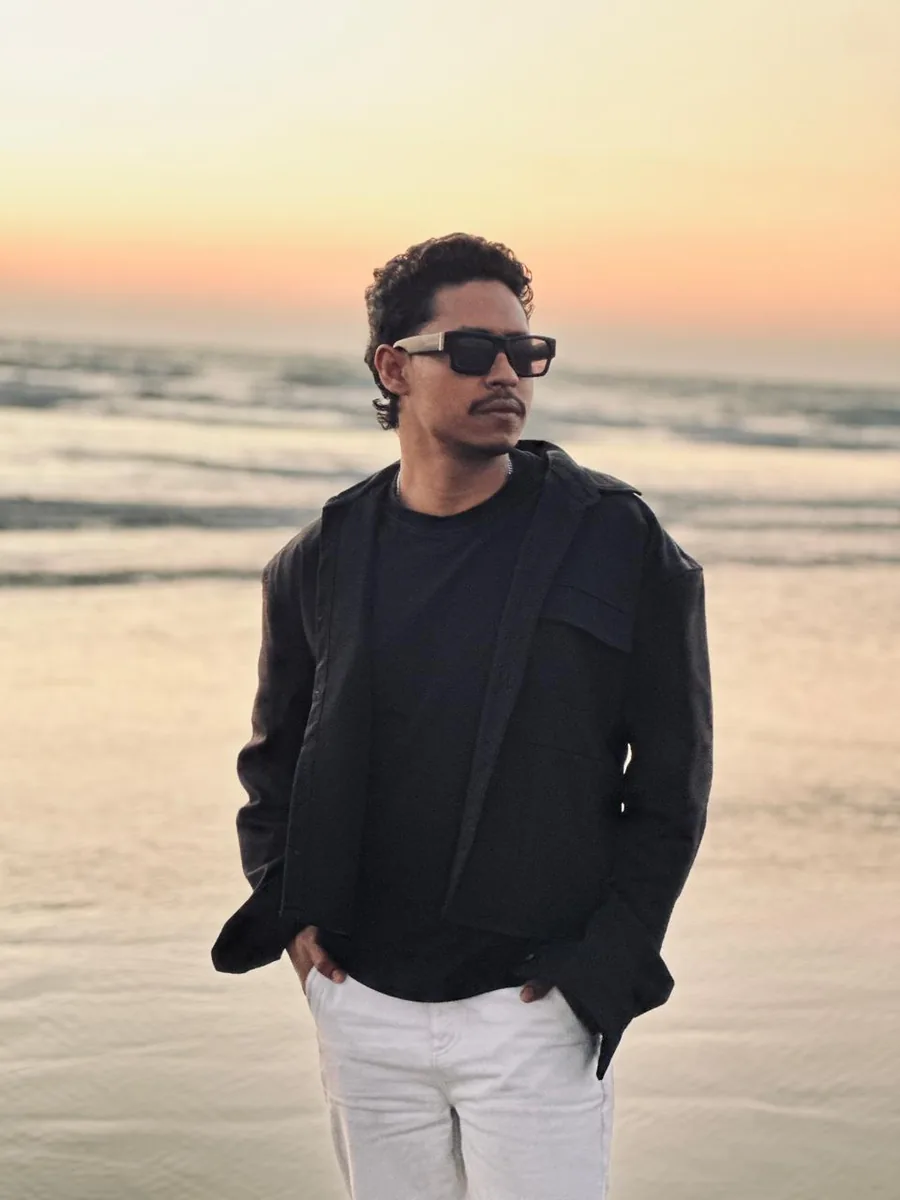
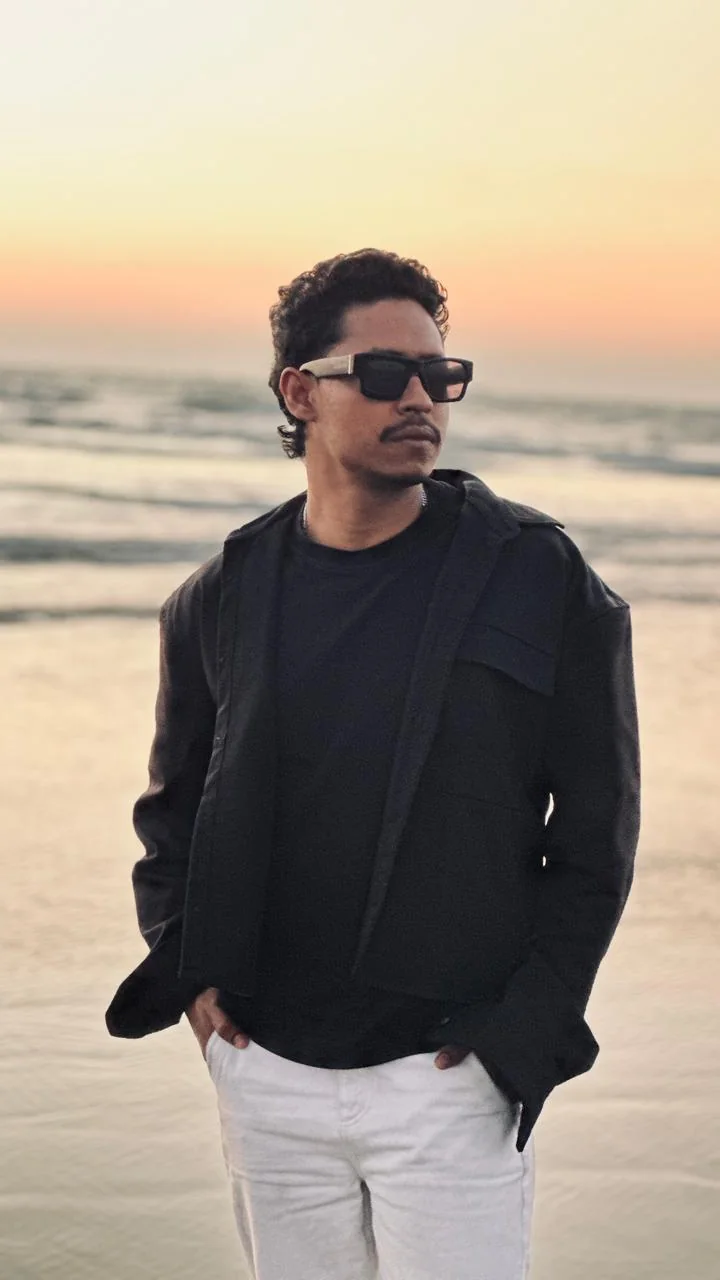
Apply Remove.docx: header chip, hero copy, 9:16 portrait, Python/Next.js, year
- Removed the "Open to work" chip from the header, along with the
  .hdr-avail / .avail-dot rules it was the only user of.
- Hero role is now "Full-Stack Developer"; dropped the " . Dhaka" suffix.
- Replaced the hero paragraph with the supplied copy.
- Both CTAs read "Let's talk" instead of "Get in touch".
- Portrait frame is 9:16. The width/height attributes were acting as
  presentational hints and, with no height in the CSS, were overriding
  aspect-ratio entirely - the frame had been rendering 400x1280 rather
  than to ratio. Added height:auto so aspect-ratio governs, and re-cropped
  sakib-portrait.webp from the original to a true 720x1280 so object-fit
  has nothing left to crop.
- Toolkit gains Next.js under Front-end and Python under Back-end.
- Footer year 2026 -> 2020.

admin.html's SEED block mirrors the index.html defaults, so it carries the
same copy and skills changes; otherwise the dashboard would pre-fill the
old text on a fresh install.

diff --git a/index.html b/index.html
@@ -102,11 +102,6 @@ body {
   font-size: 10.5px; letter-spacing: 0.14em;
   text-transform: uppercase; color: var(--text-dim);
 }
-.hdr-avail { display: flex; align-items: center; gap: 8px; }
-.avail-dot {
-  width: 6px; height: 6px; border-radius: 50%;
-  background: #7ee7a0; box-shadow: 0 0 8px #7ee7a0;
-}
 
 /* ─── SIDE NAV ───────────────────────────────────────────────────── */
 #side-nav {
@@ -281,8 +276,8 @@ body {
 .timeline-text { font-size: 15px; color: var(--text-sub); }
 .bg-sidebar { position: sticky; top: 108px; }
 .portrait-img {
-  width: 100%; max-width: 400px;
-  aspect-ratio: 3/4; object-fit: cover; object-position: center top;
+  width: 100%; max-width: 400px; height: auto;
+  aspect-ratio: 9/16; object-fit: cover; object-position: center;
   margin-bottom: 32px;
   filter: grayscale(0.12) contrast(1.04);
 }
@@ -677,7 +672,6 @@ a.cc-value:hover { color: var(--accent); }
 @media (max-width: 768px) {
   #site-header { padding: 16px 20px; }
   .hdr-right { gap: 12px; }
-  .hdr-avail { display: none; }
   #mob-menu-btn { display: flex; }
   #mob-nav { display: block; }
   #side-nav, #scroll-rail { display: none; }
@@ -733,7 +727,6 @@ a.cc-value:hover { color: var(--accent); }
     <img id="hdr-signature" src="uploads/signature.png" alt="Sakibun Noor" width="246" height="120">
   </a>
   <div class="hdr-right">
-    <span class="hdr-avail"><span class="avail-dot"></span> Open to work</span>
     <button id="mob-menu-btn" aria-label="Open menu"><span></span><span></span></button>
   </div>
 </header>
@@ -749,10 +742,10 @@ a.cc-value:hover { color: var(--accent); }
   <div class="hero-scrim hero-scrim-2"></div>
 
   <div id="hero-content">
-    <p id="hero-role">Full-Stack Developer · Dhaka</p>
+    <p id="hero-role">Full-Stack Developer</p>
     <h1 id="hero-name">Sakibun<br>Noor</h1>
-    <p id="hero-desc">I build web applications for small teams in the UK and US. React on the front, Laravel or Node behind it. Freelancing since 2019, a little over a hundred projects in.</p>
-    <button class="btn-primary js-to-contact">Get in touch <span class="arrow">→</span></button>
+    <p id="hero-desc">I build software that businesses actually run on. From full-stack web apps to purpose-built engines, I design and develop systems around how your business actually works. Ten-plus years of tooling across Python, React, JavaScript and C, delivered for companies operating at multinational scale.</p>
+    <button class="btn-primary js-to-contact">Let’s talk <span class="arrow">→</span></button>
   </div>
 
   <div id="hero-scroll-hint" aria-hidden="true">
@@ -780,14 +773,14 @@ a.cc-value:hover { color: var(--accent); }
         <div id="timeline"></div>
 
         <button class="btn-primary js-to-contact" style="margin-top:44px;">
-          Get in touch <span class="arrow">→</span>
+          Let’s talk <span class="arrow">→</span>
         </button>
       </div>
     </div>
 
     <div class="bg-sidebar" data-reveal>
       <img class="portrait-img" src="uploads/sakib-portrait.webp" alt="Sakibun Noor"
-        width="900" height="1200" loading="lazy" decoding="async">
+        width="720" height="1280" loading="lazy" decoding="async">
       <p class="vitals-label">Vitals</p>
       <div id="vitals"></div>
     </div>
@@ -898,7 +891,7 @@ a.cc-value:hover { color: var(--accent); }
   </div>
 
   <footer id="site-footer">
-    <span>© Sakibun Noor 2026</span>
+    <span>© Sakibun Noor 2020</span>
     <span>Hand-coded in Dhaka</span>
     <span>v3 · <span id="footer-clock"></span></span>
   </footer>
@@ -931,9 +924,9 @@ a.cc-value:hover { color: var(--accent); }
      If Supabase has saved content, it replaces these after load. */
   var DEFAULTS = {
     hero: {
-      role: 'Full-Stack Developer · Dhaka',
+      role: 'Full-Stack Developer',
       name: 'Sakibun<br>Noor',
-      desc: 'I build web applications for small teams in the UK and US. React on the front, Laravel or Node behind it. Freelancing since 2019, a little over a hundred projects in.'
+      desc: 'I build software that businesses actually run on. From full-stack web apps to purpose-built engines, I design and develop systems around how your business actually works. Ten-plus years of tooling across Python, React, JavaScript and C, delivered for companies operating at multinational scale.'
     },
 
     bio: {
@@ -1016,11 +1009,13 @@ a.cc-value:hover { color: var(--accent); }
 
     skills: [
       { label: 'Front-end', items: [
-        { name: 'React.js', years: '5y' }, { name: 'JavaScript', years: '6y' },
-        { name: 'HTML & CSS', years: '6y' }, { name: 'Tailwind CSS', years: '3y' } ]},
+        { name: 'React.js', years: '5y' }, { name: 'Next.js', years: '3y' },
+        { name: 'JavaScript', years: '6y' }, { name: 'HTML & CSS', years: '6y' },
+        { name: 'Tailwind CSS', years: '3y' } ]},
       { label: 'Back-end', items: [
-        { name: 'PHP', years: '5y' }, { name: 'Laravel', years: '4y' },
-        { name: 'Node.js', years: '3y' }, { name: 'REST APIs', years: '5y' } ]},
+        { name: 'Python', years: '5y' }, { name: 'PHP', years: '5y' },
+        { name: 'Laravel', years: '4y' }, { name: 'Node.js', years: '3y' },
+        { name: 'REST APIs', years: '5y' } ]},
       { label: 'Data & CMS', items: [
         { name: 'MySQL', years: '5y' }, { name: 'WordPress', years: '5y' },
         { name: 'Custom themes', years: '4y' }, { name: 'Payments', years: '4y' } ]},

diff --git a/admin.html b/admin.html
@@ -230,9 +230,9 @@ input,textarea,select{font-family:var(--serif);color:var(--text)}
      the database is the only source of truth. */
   var SEED = {
     hero: {
-      role: 'Full-Stack Developer · Dhaka',
+      role: 'Full-Stack Developer',
       name: 'Sakibun<br>Noor',
-      desc: 'I build web applications for small teams in the UK and US. React on the front, Laravel or Node behind it. Freelancing since 2019, a little over a hundred projects in.'
+      desc: 'I build software that businesses actually run on. From full-stack web apps to purpose-built engines, I design and develop systems around how your business actually works. Ten-plus years of tooling across Python, React, JavaScript and C, delivered for companies operating at multinational scale.'
     },
     bio: {
       intro: 'Most of my work has been the unglamorous kind. Admin panels, checkout flows, the dashboard someone stares at for eight hours a day. I have come to prefer it.',
@@ -288,8 +288,8 @@ input,textarea,select{font-family:var(--serif);color:var(--text)}
     },
     reels: [],
     skills: [
-      { label: 'Front-end', items: [ { name: 'React.js', years: '5y' }, { name: 'JavaScript', years: '6y' }, { name: 'HTML & CSS', years: '6y' }, { name: 'Tailwind CSS', years: '3y' } ] },
-      { label: 'Back-end',  items: [ { name: 'PHP', years: '5y' }, { name: 'Laravel', years: '4y' }, { name: 'Node.js', years: '3y' }, { name: 'REST APIs', years: '5y' } ] },
+      { label: 'Front-end', items: [ { name: 'React.js', years: '5y' }, { name: 'Next.js', years: '3y' }, { name: 'JavaScript', years: '6y' }, { name: 'HTML & CSS', years: '6y' }, { name: 'Tailwind CSS', years: '3y' } ] },
+      { label: 'Back-end',  items: [ { name: 'Python', years: '5y' }, { name: 'PHP', years: '5y' }, { name: 'Laravel', years: '4y' }, { name: 'Node.js', years: '3y' }, { name: 'REST APIs', years: '5y' } ] },
       { label: 'Data & CMS', items: [ { name: 'MySQL', years: '5y' }, { name: 'WordPress', years: '5y' }, { name: 'Custom themes', years: '4y' }, { name: 'Payments', years: '4y' } ] },
       { label: 'Tooling',   items: [ { name: 'Git', years: '6y' }, { name: 'Vercel', years: '3y' }, { name: 'Figma', years: '4y' }, { name: 'Agile', years: '3y' } ] }
     ],
